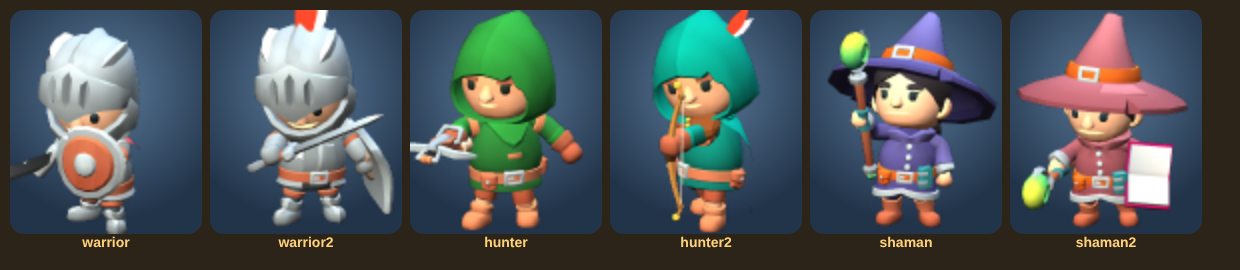
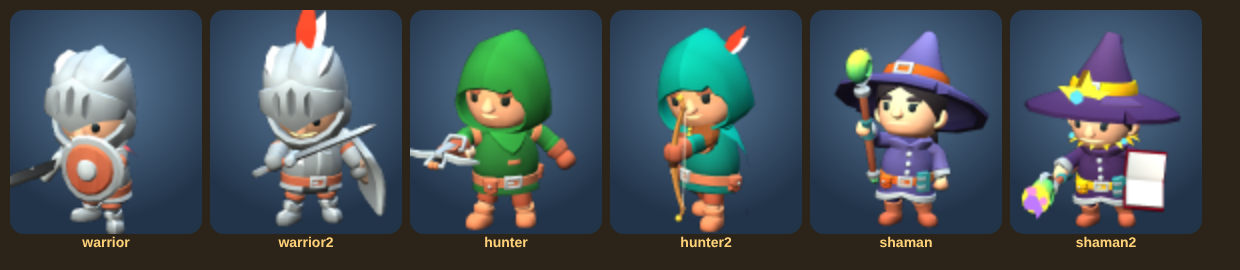
tribe3d: ★★ shaman looks stronger (royal violet + gold, crimson cape, Blender star / crystal / collar, shimmer)
Claude-Session: https://claude.ai/code/session_01TXxUxQcT1cLZgJHXt5APsK

diff --git a/tribe3d.html b/tribe3d.html
@@ -1165,9 +1165,12 @@ const GAME = window.GAME = (function () {
       PEOPLE.tpl.warrior = Object.assign({}, PEOPLE.tpl.chief, { mats: [M[1]] });   // fallback when a pack file is missing
       PEOPLE.tpl.hunter = PEOPLE.tpl.warrior; PEOPLE.tpl.shaman = PEOPLE.tpl.warrior;
       const [TK, TM, TH, TH2, TM2] = await Promise.all(['knigh_0', 'mage_0', 'rogue_3', 'rogue_4', 'mage_1'].map(n => tex(n).catch(() => null)));
-      const [AB, AT, GE] = await Promise.all(['art/tribe3d/people/anims_bow.glb', 'art/tribe3d/people/anims_tools.glb', 'art/tribe3d/gear/archer_gear.glb'].map(u => ld.loadAsync(u).catch(() => null)));
+      const [AB, AT, GE, GM] = await Promise.all(['art/tribe3d/people/anims_bow.glb', 'art/tribe3d/people/anims_tools.glb', 'art/tribe3d/gear/archer_gear.glb', 'art/tribe3d/gear/mage_gear.glb'].map(u => ld.loadAsync(u).catch(() => null)));
       const GEAR = {};   // Blender gear (tools/blender/archer_gear.py): flat colours, modelled +Y up (glTF turned it), the bow is held as it is
       if (GE) for (const c of GE.scene.children) { c.traverse(o => { if (!o.isMesh) return; const mm = (Array.isArray(o.material) ? o.material : [o.material]).map(q => new THREE.MeshLambertMaterial({ color: q.color.clone().convertLinearToSRGB(), side: THREE.DoubleSide })); o.material = mm.length === 1 ? mm[0] : mm; o.castShadow = true; if (c.name !== 'Bow') o.geometry.rotateX(Math.PI / 2); }); GEAR[c.name] = c; }
+      if (GM) for (const c of GM.scene.children) {   // ★★ shaman gear (tools/blender/mage_gear.py, modelled Y-up): "glow*" materials are drawn unlit
+        c.traverse(o => { if (!o.isMesh) return; const mm = (Array.isArray(o.material) ? o.material : [o.material]).map(q => (q.name || '').startsWith('glow') ? new THREE.MeshBasicMaterial({ color: q.color.clone().convertLinearToSRGB() }) : new THREE.MeshLambertMaterial({ color: q.color.clone().convertLinearToSRGB(), emissive: 0x2a1a00 })); o.material = mm.length === 1 ? mm[0] : mm; o.castShadow = true; });
+        GEAR[c.name] = c; }
       const findN = (r, n) => { let f = null; r.traverse(o => { if (o.name === n && !f) f = o; }); return f; };
       const addGear = (T, list) => { T.root.updateMatrixWorld(true); for (const [n, bone, pos, rot, local, sc] of list) { const bn = findN(T.root, bone); if (!GEAR[n] || !bn) continue; const g = GEAR[n].clone(); g.position.set(...pos); g.rotation.set(...rot); if (sc) g.scale.setScalar(sc); if (local) bn.add(g); else { T.root.add(g); g.updateMatrixWorld(true); bn.attach(g); } } };
       if (Kn && TK) { const m = new THREE.MeshLambertMaterial({ map: TK }); PEOPLE.tpl.warrior = mergePerson(C(Kn), ['Knight_Helmet', 'Knight_Cape', '1H_Sword', 'Round_Shield'], m); PEOPLE.tpl.warrior.mats = [m]; }
@@ -1176,7 +1179,8 @@ const GAME = window.GAME = (function () {
       if (Kn && TK) { const m = new THREE.MeshLambertMaterial({ map: TK }); const T2 = PEOPLE.tpl.warrior2 = mergePerson(C(Kn), ['Knight_Helmet', 'Knight_Cape', '1H_Sword', 'Badge_Shield'], m); T2.mats = [m]; addGear(T2, [['Plume', 'head', [0.02, 2.2, -0.05], [-0.25, 0, 0.1], 0, 1.9]]); }
       if (RH && TH2) { const m = new THREE.MeshLambertMaterial({ map: TH2 }); const T2 = PEOPLE.tpl.hunter2 = mergePerson(C(RH), ['Rogue_Cape'], m); T2.mats = [m];
         addGear(T2, [['Bow', 'handslotl', [0, 0, 0], [0, 0, 0], 1], ['Quiver', 'hips', [-0.36, 0.62, -0.1], [-0.35, 0, 0.32]], ['Plume', 'head', [0.32, 1.98, -0.02], [0, 0, -0.55]], ['Pad', 'upperarml', [0.3, 1.17, 0], [0, 0, -0.7]]]); }
-      if (Mg && TM2) { const m = new THREE.MeshLambertMaterial({ map: TM2 }); const T2 = PEOPLE.tpl.shaman2 = mergePerson(C(Mg), ['Mage_Hat', 'Mage_Cape', '2H_Staff', 'Spellbook_open'], m); T2.mats = [m]; }
+      if (Mg && TM2) { const m = new THREE.MeshLambertMaterial({ map: TM2 }); const T2 = PEOPLE.tpl.shaman2 = mergePerson(C(Mg), ['Mage_Hat', 'Mage_Cape', '2H_Staff', 'Spellbook_open'], m); T2.mats = [m];
+        addGear(T2, [['HatStar', 'head', [0, 2.1, 0.62], [-0.35, 0, 0], 0, 1.9], ['Crystal', 'handslotr', [-0.88, 1.05, 1.28], [Math.PI / 2, 0, 0], 0, 1.3], ['Collar', 'chest', [0, 1.34, 0], [0, 0, 0], 0, 1.3]]); }
       if (Mg && TM) { const m = new THREE.MeshLambertMaterial({ map: TM }); PEOPLE.tpl.shaman = mergePerson(C(Mg), ['Mage_Hat', 'Mage_Cape', '2H_Staff'], m); PEOPLE.tpl.shaman.mats = [m]; }
       PEOPLE.tpl.giant = Object.assign({}, PEOPLE.tpl.man, { mats: [new THREE.MeshLambertMaterial({ map: T[0], color: 0x9ac07a })] });   // green-skinned forest giant
       PEOPLE.clips = [...B.animations, ...(AB ? AB.animations : []), ...(AT ? AT.animations : [])]; PEOPLE.ready = true; try { makePortraits(); } catch (e) { console.warn('portraits', e.message); }
@@ -1390,6 +1394,7 @@ const GAME = window.GAME = (function () {
   function solStep(s, dt) {
     const home = s.fort && !s.fort.dead ? s.fort : G.hall, buff = G.buff > 0, U = UNIT[s.kind || 'warrior'];
     if (s.busy > 0) s.busy -= dt;
+    if (s.tier > 1 && s.kind === 'shaman' && rnd() < dt * 5) spawnP(s.x + (rnd() - .5) * 2, groundY(s.x, s.z) + .5 + rnd() * 2.5, s.z + (rnd() - .5) * 2, 0, 1 + rnd(), 0, .9, 2.5, 3);
     if (U.heal) { s.hl -= dt; if (s.hl <= 0) { s.hl = .5; let w = null, wk = .999;   // shaman: mend the most hurt fighter close by
       for (const o of [...G.sol, ...G.vill]) { const k2 = o.hp / (o.max || 30); if (k2 < wk && Math.hypot(o.x - s.x, o.z - s.z) < 24) { wk = k2; w = o; } }
       if (w) { const amt = U.heal * tierK(s) * (1 + .1 * (G.day - 1)); w.hp = Math.min(w.max || 30, w.hp + amt); s.hl = 2; G.healN = (G.healN || 0) + 1; float(w.x, groundY(w.x, w.z) + 4, w.z, '+' + Math.round(amt), '#9aff8a'); for (let i = 0; i < 8; i++) spawnP(w.x + (rnd() - .5) * 1.5, groundY(w.x, w.z) + .5 + rnd() * 2, w.z + (rnd() - .5) * 1.5, 0, 2 + rnd() * 2, 0, .8, 3, 2); if (s.mixer && !(s.busy > 0)) s.busy = vPlay(s, 'raise', true, .1) * .7; } } }

diff --git a/tools/blender/mage_gear.py b/tools/blender/mage_gear.py
@@ -1,0 +1,74 @@
+# Gear for the "หมอผี ★★" (2-star shaman) of tribe3d.html, modelled in Blender by script (headless, cloud session), so the
+# upgraded shaman looks clearly stronger than the ★ one (owner 2026-11-16: the first ★★ shaman looked weaker):
+#   HatStar = a gold five-point star with a glowing gem, for the front of the hat (faces +Z in the game)
+#   Crystal = a cluster of glowing violet crystals in a gold ring, for the staff head
+#   Collar  = a gold mantle collar with points, round the neck (lies flat)
+# Modelled Z-up (Blender) so it arrives Y-up in glTF; sizes in KayKit character units (a character is 2.4 tall).
+# Materials whose name starts with "glow" are drawn unlit (glowing) by the game.
+#   pip install bpy ; python3 tools/blender/mage_gear.py art/tribe3d/gear/mage_gear.glb
+import bpy, bmesh, math, sys
+from mathutils import Vector
+OUT = sys.argv[-1] if sys.argv[-1].endswith('.glb') else 'art/tribe3d/gear/mage_gear.glb'
+bpy.ops.wm.read_factory_settings(use_empty=True)
+def lin(h):
+    c = [((h >> s) & 255) / 255 for s in (16, 8, 0)]
+    return tuple(v / 12.92 if v <= .04045 else ((v + .055) / 1.055) ** 2.4 for v in c)
+def mat(name, h, rough=.5, metal=0.):
+    m = bpy.data.materials.new(name); m.use_nodes = True; b = m.node_tree.nodes['Principled BSDF']
+    b.inputs['Base Color'].default_value = (*lin(h), 1); b.inputs['Roughness'].default_value = rough; b.inputs['Metallic'].default_value = metal; return m
+GOLD, GOLD2, GEM, CRY, CRY2 = mat('gold', 0xffcf3a, .3, .7), mat('gold_dark', 0xc08a1a, .4, .6), mat('glow_gem', 0x6af0ff), mat('glow_crystal', 0xc07aff), mat('glow_crystal2', 0xff9ae8)
+def obj(name):
+    me = bpy.data.meshes.new(name); ob = bpy.data.objects.new(name, me); bpy.context.collection.objects.link(ob); return ob, me
+def finish(me, bm, mats):
+    for m in mats: me.materials.append(m)
+    bm.to_mesh(me); bm.free()
+    for p in me.polygons: p.use_smooth = False
+
+# ---------- star (in the XZ plane, thickness along Y; front = -Y in Blender = +Z in the game)
+ob, me = obj('HatStar'); bm = bmesh.new()
+R1, R2, T = .2, .085, .05
+ring = [Vector((math.sin(i / 10 * 6.283) * (R1 if i % 2 == 0 else R2), 0, math.cos(i / 10 * 6.283) * (R1 if i % 2 == 0 else R2))) for i in range(10)]
+front = [bm.verts.new(p + Vector((0, -T, 0))) for p in ring]; back = [bm.verts.new(p + Vector((0, T, 0))) for p in ring]
+cf = bm.verts.new((0, -T * 2.2, 0)); cb = bm.verts.new((0, T * 1.4, 0))
+for i in range(10):
+    j = (i + 1) % 10
+    bm.faces.new((front[i], front[j], cf)); bm.faces.new((back[j], back[i], cb)); bm.faces.new((front[j], front[i], back[i], back[j]))
+gem = bmesh.ops.create_icosphere(bm, subdivisions=1, radius=.055)
+for v in gem['verts']: v.co += Vector((0, -T * 2.4, 0))
+for f in {f for v in gem['verts'] for f in v.link_faces}: f.material_index = 1
+finish(me, bm, [GOLD, GEM])
+
+# ---------- crystal cluster in a gold ring (stands up along Z)
+ob, me = obj('Crystal'); bm = bmesh.new()
+def crystal(bm, base, axis, length, r, mi):
+    axis = Vector(axis).normalized(); side = axis.cross(Vector((1, 0, 0))) if abs(axis.x) < .9 else axis.cross(Vector((0, 1, 0))); side.normalize(); s2 = axis.cross(side)
+    mid = [bm.verts.new(Vector(base) + axis * length * .35 + (side * math.cos(a) + s2 * math.sin(a)) * r) for a in [k / 6 * 6.283 for k in range(6)]]
+    top = bm.verts.new(Vector(base) + axis * length); bot = bm.verts.new(Vector(base) - axis * length * .15)
+    for i in range(6):
+        j = (i + 1) % 6; f = bm.faces.new((mid[i], mid[j], top)); f.material_index = mi; g = bm.faces.new((mid[j], mid[i], bot)); g.material_index = mi
+crystal(bm, (0, 0, 0), (0, 0, 1), .42, .09, 1)
+crystal(bm, (.05, .02, -.02), (.5, .2, 1), .28, .06, 2)
+crystal(bm, (-.05, -.03, -.02), (-.45, -.3, 1), .26, .055, 1)
+crystal(bm, (.0, -.05, -.03), (.1, -.6, 1), .22, .05, 2)
+tor = bmesh.ops.create_cone(bm, cap_ends=True, segments=10, radius1=.13, radius2=.16, depth=.07)
+for v in tor['verts']: v.co += Vector((0, 0, -.02))
+for f in {f for v in tor['verts'] for f in v.link_faces}: f.material_index = 0
+finish(me, bm, [GOLD, CRY, CRY2])
+
+# ---------- gold collar (flat ring of points round the neck, centre = neck)
+ob, me = obj('Collar'); bm = bmesh.new()
+N = 14; inner, outer = .26, .4
+for i in range(N):
+    a0, a1, am = i / N * 6.283, (i + 1) / N * 6.283, (i + .5) / N * 6.283
+    v = [bm.verts.new((math.cos(a0) * inner, math.sin(a0) * inner, 0)), bm.verts.new((math.cos(a1) * inner, math.sin(a1) * inner, 0)),
+         bm.verts.new((math.cos(am) * outer, math.sin(am) * outer, -.07)), bm.verts.new((math.cos(a0) * inner, math.sin(a0) * inner, .06)), bm.verts.new((math.cos(a1) * inner, math.sin(a1) * inner, .06))]
+    f = bm.faces.new((v[0], v[2], v[1])); f.material_index = i % 2; g = bm.faces.new((v[3], v[4], v[2])); g.material_index = i % 2
+    h = bm.faces.new((v[0], v[3], v[2])); h.material_index = 1; k = bm.faces.new((v[1], v[2], v[4])); k.material_index = 1
+for a in (0, 2.09, 4.19):   # three gems on the collar
+    gm = bmesh.ops.create_icosphere(bm, subdivisions=1, radius=.04)
+    for vv in gm['verts']: vv.co += Vector((math.cos(a + 1.57) * .34, math.sin(a + 1.57) * .34, .0))
+    for f in {f for vv in gm['verts'] for f in vv.link_faces}: f.material_index = 2
+finish(me, bm, [GOLD, GOLD2, GEM])
+
+bpy.ops.export_scene.gltf(filepath=OUT, export_format='GLB', export_apply=True)
+print('wrote', OUT, [o.name for o in bpy.data.objects])

diff --git a/tools/art/kaykit_recolor.py b/tools/art/kaykit_recolor.py
@@ -9,16 +9,19 @@ JOBS = {   # texture: (hue range of the cloth in degrees, [(new hue, saturation 
     'barbarian': ((190, 235), [(30, .8, 1.05), (85, .6, .95), (5, 1, 1)]),
     'rogue': ((95, 200), [(27, .7, 1), (42, .8, 1.1), (8, .85, .95), (128, .62, .8), (172, .85, .9)]),   # 3 = forest green (hooded hunters), 4 = deep teal (2-star archer)
     'knight': ((0, 0), [(0, 1, 1)]),   # lift only
-    'mage': ((230, 300), [(None, 1, 1), (352, 1.05, 1.05)]),   # 0 = lift only, 1 = crimson robes (★★ shaman)
+    'mage': ((230, 300), [(None, 1, 1), [(225, 300, 268, 1.2, .62), (300, 345, 350, 1.05, .6), (12, 45, 45, 1.1, 1.2, .62, .62)]]),   # + the pink cape -> deep crimson   # gold only on the bright saturated orange trim (not skin / hair)   # 0 = lift only, 1 = ★★ shaman: deep royal violet robes + gold trim
 }
 LIFT, SAT = .85, 1.1
 for name, ((h0, h1), variants) in JOBS.items():
     im = Image.open(f'{src}/{name}_texture.png').convert('RGBA'); px = im.load()
-    for vi, (nh, sk, vk) in enumerate(variants):
+    for vi, var in enumerate(variants):
+        rules = var if isinstance(var, list) else [(h0, h1) + tuple(var)]   # a variant = one (hue, sat, value) or a list of (h0, h1, hue, sat, value)
         o = im.copy(); q = o.load()
         for y in range(o.height):
             for x in range(o.width):
                 r, g, b, a = px[x, y]; h, s, v = colorsys.rgb_to_hsv(r / 255, g / 255, b / 255)
-                if nh is not None and s > .2 and h0 <= h * 360 <= h1: h, s, v = nh / 360, min(1, s * sk), min(1, v * vk)
+                for rule in rules:
+                    a0, a1, nh, sk, vk = rule[:5]; smin, vmin = (rule[5], rule[6]) if len(rule) > 5 else (.2, 0)
+                    if nh is not None and s > smin and v >= vmin and a0 <= h * 360 <= a1: h, s, v = nh / 360, min(1, s * sk), min(1, v * vk); break
                 r2, g2, b2 = colorsys.hsv_to_rgb(h, min(1, s * SAT), v ** LIFT); q[x, y] = (round(r2 * 255), round(g2 * 255), round(b2 * 255), a)
         o.save(f'{out}/tex_{name[:5]}_{vi}.png', optimize=True); print(name, vi)
